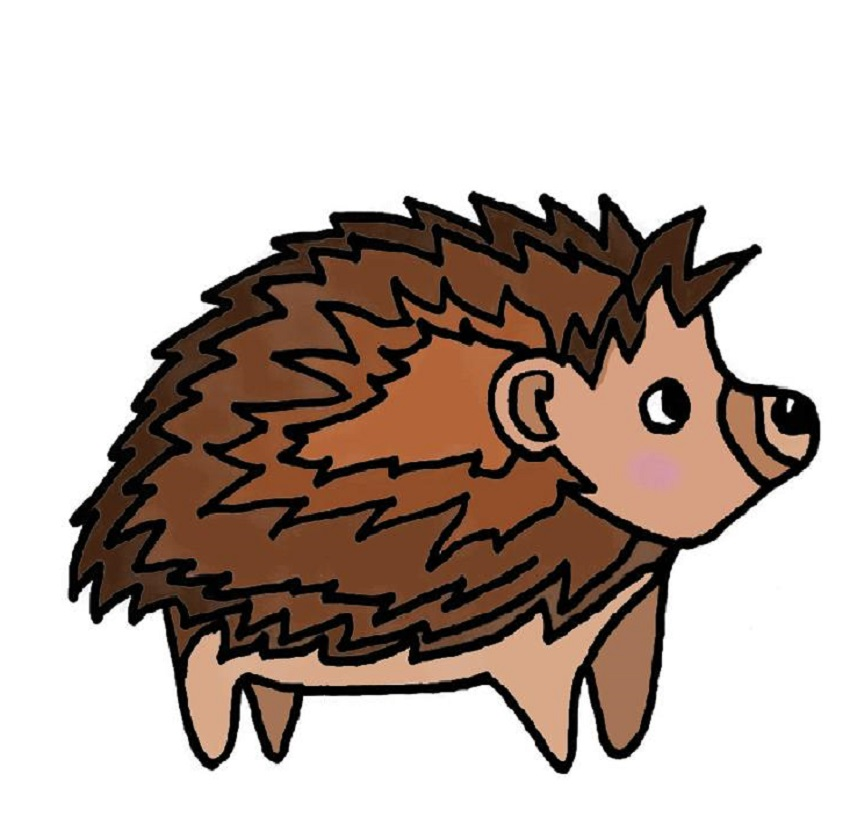
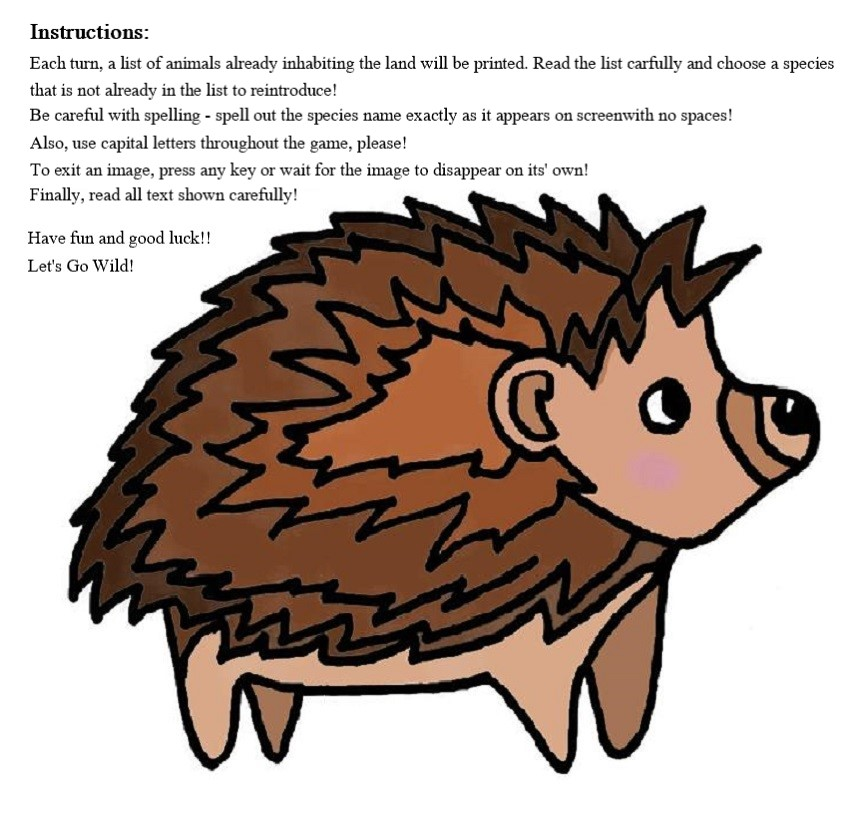
Added instructions to game as image

Changed region(s): [[0.0306, 0.0306, 0.9788, 0.2448], [0.0306, 0.2754, 0.2447, 0.3366]]

diff --git a/Images.cpp b/Images.cpp
@@ -19,7 +19,35 @@ void LogoImg()
     int k = waitKey(10000);
     destroyWindow("Welcome to Let's Go Wild!");
 }
+void HedgehogImg()
+{
+    std::string image_path = samples::findFile("Hedgehog.jpg");
+    Mat img = imread(image_path, IMREAD_COLOR);
+    if (img.empty())
+    {
+        std::cout << "Could not read the image: " << image_path << std::endl;
+    }
+    imshow("Instructions", img);
 
+    //Wait for a keystroke in the window then closes the window.
+    int k = waitKey(10000);
+    destroyWindow("Instructions");
+}
+void Ecowoman2Img()
+{
+    std::string image_path = samples::findFile("Ecowoman2.jpg");
+    Mat img = imread(image_path, IMREAD_COLOR);
+    if (img.empty())
+    {
+        std::cout << "Could not read the image: " << image_path << std::endl;
+    }
+    imshow("Rewilding", img);
+
+    //Wait for a keystroke in the window then closes the window.
+    int k = waitKey(10000);
+    destroyWindow("Rewilding");
+
+}
 void PeopleImg()
 {
     std::string image_path = samples::findFile("people.jpg");
@@ -34,7 +62,6 @@ void PeopleImg()
     int k = waitKey(50000);
     destroyWindow("People");
 }
-
 void People2Img()
 {
     std::string image_path = samples::findFile("people2.jpg");
@@ -49,7 +76,6 @@ void People2Img()
     int k = waitKey(50000);
     destroyWindow("People");
 }
-
 void EcoWomanImg()
 {
     std::string image_path = samples::findFile("ecowoman.jpg");
@@ -64,7 +90,6 @@ void EcoWomanImg()
     int k = waitKey(50000);
     destroyWindow("ecowoman");
 }
-
 void EcomanImg()
 {
     std::string image_path = samples::findFile("ecoman.jpg");
@@ -79,7 +104,6 @@ void EcomanImg()
     int k = waitKey(50000);
     destroyWindow("ecoman");
 }
-
 void ZeroImg()
 {
     std::string image_path = samples::findFile("Zero.jpg");
@@ -94,7 +118,6 @@ void ZeroImg()
     int k = waitKey(50000);
     destroyWindow("Zero");
 }
-
 void TwentyImg()
 {
     std::string image_path = samples::findFile("Twenty.jpg");
@@ -109,7 +132,6 @@ void TwentyImg()
     int k = waitKey(50000);
     destroyWindow("Twenty");
 }
-
 void SixtyImg()
 {
     std::string image_path = samples::findFile("Sixty.jpg");
@@ -124,7 +146,6 @@ void SixtyImg()
     int k = waitKey(50000);
     destroyWindow("Sixty");
 }
-
 void EndImg()
 {
     std::string image_path = samples::findFile("EndImage.jpg");

diff --git a/Design.cpp b/Design.cpp
@@ -137,46 +137,46 @@ void WolfPolicy(Ecosystem& protag, int& age)
 
 }
 
-void nothing(Ecosystem& protag, int& age)
-{
-	
-}
-void nothing2(Ecosystem& protag, int& age)
-{
-	
-}
-void nothing3(Ecosystem& protag, int& age)
-{
-
-}
-void nothing4(Ecosystem& protag, int& age)
-{
-	
-}
-void nothing5(Ecosystem& protag, int& age)
-{
-	
-}
-void nothing6(Ecosystem& protag, int& age)
-{
-
-}
-void nothing7(Ecosystem& protag, int& age)
-{
-
-}
-void nothing8(Ecosystem& protag, int& age)
-{
-	
-}
-void nothing9(Ecosystem& protag, int& age)
-{
-	
-}
-void nothing10(Ecosystem& protag, int& age)
-{
-
-}
+//void nothing(Ecosystem& protag, int& age)
+//{
+//	
+//}
+//void nothing2(Ecosystem& protag, int& age)
+//{
+//	
+//}
+//void nothing3(Ecosystem& protag, int& age)
+//{
+//
+//}
+//void nothing4(Ecosystem& protag, int& age)
+//{
+//	
+//}
+//void nothing5(Ecosystem& protag, int& age)
+//{
+//	
+//}
+//void nothing6(Ecosystem& protag, int& age)
+//{
+//
+//}
+//void nothing7(Ecosystem& protag, int& age)
+//{
+//
+//}
+//void nothing8(Ecosystem& protag, int& age)
+//{
+//	
+//}
+//void nothing9(Ecosystem& protag, int& age)
+//{
+//	
+//}
+//void nothing10(Ecosystem& protag, int& age)
+//{
+//
+//}
 
 //Adds 5 years
 void Aging(int& age)

diff --git a/Lets_Go_Wild.cpp b/Lets_Go_Wild.cpp
@@ -15,9 +15,12 @@ int main(int argc, char** argv)
 	//Player input taken.
 	std::string input;
 	std::cout << "Welcome to Lets Go Wild!\n";
+
 	//Displays logo.
 	LogoImg();
+	HedgehogImg();
 	PeopleImg();
+	Ecowoman2Img();
 	EcoWomanImg();
 	EcomanImg();
 	People2Img();

diff --git a/Images.h b/Images.h
@@ -10,6 +10,8 @@
 #include <iostream>
 
 void LogoImg();
+void HedgehogImg();
+void Ecowoman2Img();
 void PeopleImg();
 void People2Img();
 void EcoWomanImg();
